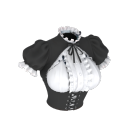
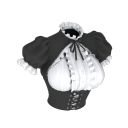
Publish the refitted maid outfit and twin tails
assets.lock pins the Hugging Face revision with today's fitted parts, and
the maid item icons and floor models are rendered from them.

Changed region(s): [[0.125, 0.1562, 0.875, 0.875]]

diff --git a/doc/assets/modular-female-maid-tripo.md b/doc/assets/modular-female-maid-tripo.md
@@ -120,4 +120,3 @@ OpenAI Codex built-in ImageGen(`codex exec`), **ChatGPT Pro 20x**. OpenAI 생성
 
 - 기존 의상을 다시 피팅해 스크립트 변경 뒤에도 결과가 같은지 확인하지 않았다.
 - 수면 자세, 거래 창 초상화와의 차이(헤어)는 확인하지 않았다.
-- HF 업로드와 `assets.lock` 갱신 전이다.

diff --git a/doc/assets/modular-female-twintail-hair.md b/doc/assets/modular-female-twintail-hair.md
@@ -51,4 +51,3 @@ node tools/prepare-female-knight.mjs --part twintail_hair
 
 - 투구 헤어 마스크와 chic·custom 얼굴 보정은 하지 않았다.
 - 동작 검토(`review_female_long_hair.py`)는 돌리지 않았다. 미리보기의 대기·달리기에서만 봤다.
-- HF 업로드와 `assets.lock` 갱신 전이다.
